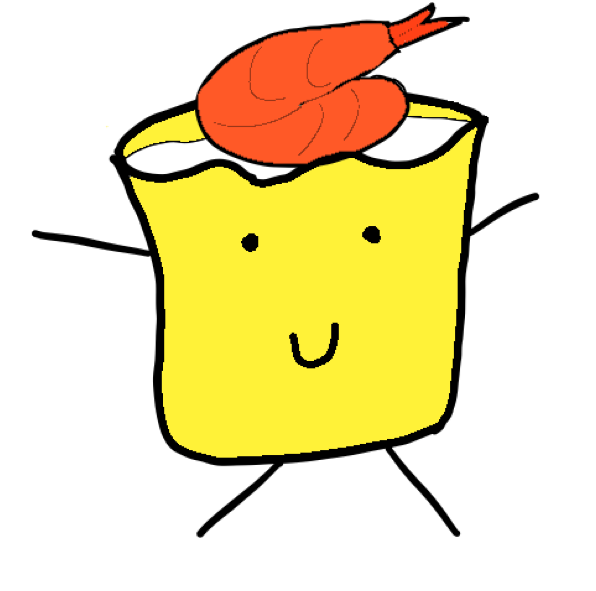
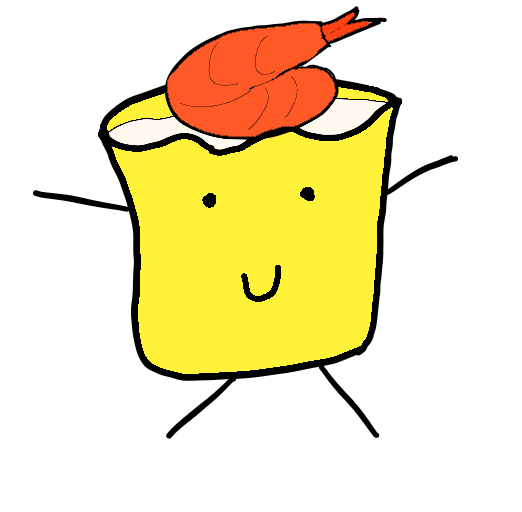
version 0.0.2
- improve UI
    - add icon
    - change size of photo

diff --git a/features/sample_echo.js b/features/sample_echo.js
@@ -62,6 +62,7 @@ module.exports = function(controller) {
     // saying hi.
     controller.hears( (message) => message.text.toLowerCase() === "hi", 'message', async(bot, message) => {
         bot.reply(message, 'Hello, I am Sai Mai Zaai, your Hong Kong Travel Advisor');
+        bot.reply(message, '<img class="msg_img" src="/images/icon.png"/>');
         await timeout(300)
         bot.reply(message, 'You can use English to talk with me');
         await timeout(300);

diff --git a/public/index.html b/public/index.html
@@ -1,6 +1,7 @@
 <html>
     <head>
         <title>HK Travel Advisor</title>
+        <link rel="icon" href="/images/icon.png">
         <script src="https://cdnjs.cloudflare.com/ajax/libs/handlebars.js/4.0.10/handlebars.min.js"></script>
         <script src="https://cdn.rawgit.com/showdownjs/showdown/1.7.4/dist/showdown.min.js"></script>
         <link rel="stylesheet" href="/css/styles.css" />

diff --git a/public/css/customize.css b/public/css/customize.css
@@ -17,5 +17,5 @@ section {
 }
 
 .msg_img {
-    width: 50vw;
+    width: 25em;
 }
